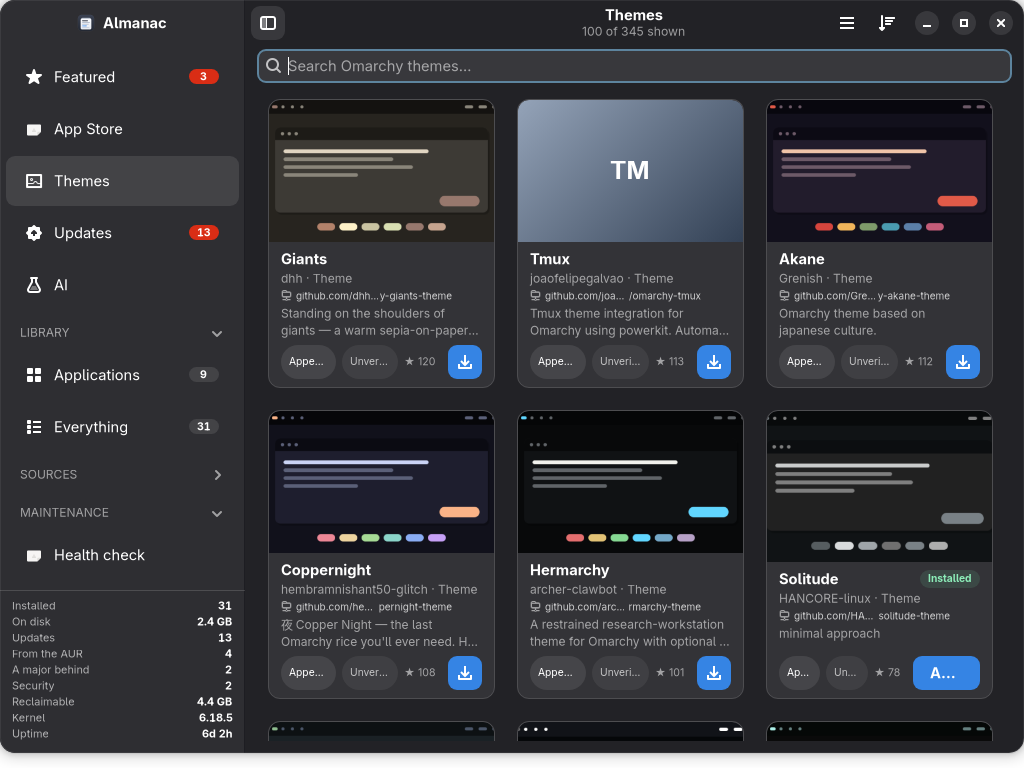
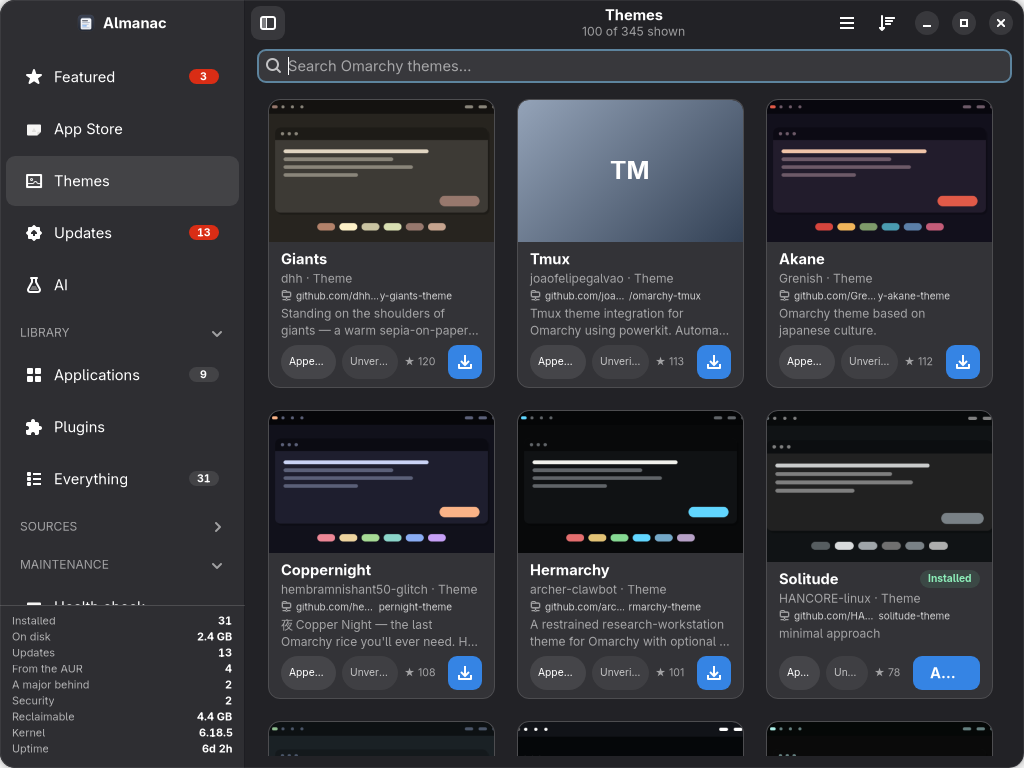
Version 1.4.0: README and screenshot for the Plugins page
Demo mode lists synthetic plugins, so the screenshot shows no one's own
setup -- the page otherwise reads omarchy's real list -- with a test, and
without a real account's avatar.

diff --git a/demo.py b/demo.py
@@ -360,3 +360,39 @@ def history():
         by_day.setdefault(datetime.fromtimestamp(e.ts).date(), []).append(e)
     return [h.Day(d, evs, any(e.kind == h.SNAPSHOT for e in evs))
             for d, evs in sorted(by_day.items(), reverse=True)]
+
+
+def plugins():
+    """A believable plugin list, so the Plugins page shows no one's own."""
+    import plugins as p
+    up = p.State("example.weather", p.UPDATE, "behind", 23,
+                 "https://github.com/example/weather")
+    # No address: a real account's avatar must not appear in a screenshot.
+    edits = p.State("example.scratchpad", p.LOCAL_CHANGES, "modified", 7)
+    current = p.State("example.bar-clock", p.CURRENT, "",
+                      url="https://github.com/example/bar-clock")
+    dev = p.State("example.devtool", p.LOCAL, "symlink")
+    rows = [
+        p.Installed("example.weather", "Weather", "Current conditions and the "
+                    "next few hours, in the bar", "1.4.2", ("bar-widget",),
+                    True, state=up),
+        p.Installed("example.scratchpad", "Scratchpad", "A scratch buffer that "
+                    "follows you between workspaces", "0.9.1", ("panel",),
+                    True, state=edits),
+        p.Installed("example.bar-clock", "Bar clock", "A clock for the bar",
+                    "2.1.0", ("bar-widget",), False, state=current),
+        p.Installed("example.devtool", "Plugin I am writing", "Linked from a "
+                    "workspace", "0.1.0", ("panel",), True, state=dev),
+    ]
+    for pid, name, desc, kinds, on in (
+            ("omarchy.clock", "Clock", "The time and date", ("bar-widget",), True),
+            ("omarchy.bluetooth", "Bluetooth", "Devices and pairing",
+             ("bar-widget",), True),
+            ("omarchy.network", "Network", "Wi-Fi and wired", ("bar-widget",), True),
+            ("omarchy.battery", "Battery", "Charge and power profile",
+             ("bar-widget",), True),
+            ("omarchy.weather", "Weather", "Forecast in the bar", ("bar-widget",), False),
+            ("omarchy.bar", "Bar", "The bar itself", ("bar",), True)):
+        rows.append(p.Installed(pid, name, desc, "1.0.0", kinds, on,
+                                can_disable=pid != "omarchy.bar", built_in=True))
+    return rows

diff --git a/test_app.py b/test_app.py
@@ -1337,6 +1337,13 @@ class DemoModeHidesTheMachine(unittest.TestCase):
         self.assertNotIn(os.uname().release.split("-")[0], kernel)
         self.assertEqual(uptime, "6d 2h")
 
+    def test_plugins_are_synthetic(self):
+        import plugins
+        with mock.patch.dict("os.environ", {"ALMANAC_DEMO": "1"}), \
+             mock.patch.object(plugins.subprocess, "run",
+                               side_effect=AssertionError("asked omarchy")):
+            self.assertTrue(plugins.installed())
+
     def test_history_is_synthetic(self):
         import history
         with mock.patch.dict("os.environ", {"ALMANAC_DEMO": "1"}), \

diff --git a/plugins.py b/plugins.py
@@ -194,6 +194,9 @@ def installed(fetch: bool = True, cache: dict | None = None) -> list[Installed]:
     supply the description, and the user's own plugins are classified so the
     page can say whether each can be updated.
     """
+    import demo
+    if demo.active():
+        return demo.plugins()
     try:
         out = subprocess.run(["omarchy", "plugin", "list", "--json"],
                              capture_output=True, text=True, timeout=25).stdout

diff --git a/selfupdate.py b/selfupdate.py
@@ -31,7 +31,7 @@ ROOT = Path(__file__).resolve().parent
 NAME = "Almanac"
 # Bumped by hand at release. git describe supersedes it in a checkout, so this
 # is only what a tarball install reports.
-VERSION = "1.3.0"
+VERSION = "1.4.0"
 
 GIT, PACKAGE, PLAIN = "git", "package", "plain"
 

diff --git a/README.md b/README.md
@@ -268,13 +268,18 @@ uninstall instructions are never offered. Plugins whose install itself cannot
 be done safely (a failed compatibility check, a version-matched helper, a
 monorepo, a suite with its own installer) still say "Manual setup", and why.
 
-### Installed plugins
+### Plugins — every one on the system, with a switch
 
-Every installed plugin can be switched on or off (through `omarchy plugin
-enable/disable`) from its row or its page, without removing it. Before
-anything offers to update one, it is classified: up to date, update waiting,
-local changes (edited, ahead of upstream, diverged, detached), local, or
-error. A **symlinked development plugin** — a link to its author's workspace —
+<img src="docs/screenshots/plugins.png" alt="Plugins" width="820">
+
+Library → Plugins lists every plugin Omarchy knows about, yours first and the
+built-ins after, each with a switch (`omarchy plugin enable/disable`) that
+moves only once Omarchy agrees. Each carries a logo — the vendor's own for a
+plugin about a service, the marketplace artwork for a listed one, otherwise an
+icon for what it does — and, for yours, its update state and provenance.
+Before anything offers to update one, it is classified: up to date, update
+waiting, local changes (edited, ahead of upstream, diverged, detached), local,
+or error. A **symlinked development plugin** — a link to its author's workspace —
 is never updated here, though `omarchy plugin update` would fast-forward it.
 Updates go through `omarchy plugin update`, which validates the result and
 rolls back a plugin that fails.
@@ -282,9 +287,10 @@ rolls back a plugin that fails.
 **☰ → Update plugins** updates every clean pending update at once, within a
 scope set in Preferences — verified only, verified and changed since review,
 or all — and lists what it held back and why. Scheduled runs honour the same
-scope. A plugin with a panel can be given a **keyboard shortcut**: checked
-against every binding Hyprland has, written to its own block in
-`bindings.lua`, and put back if Hyprland rejects it. **☰ → Restart the
+scope, and each plugin is checked again at the moment it is updated. A plugin
+with a panel can be given a **keyboard shortcut**: checked against every
+binding Hyprland has, written to its own block in `bindings.lua`, put back if
+Hyprland rejects it, and removed with the plugin. **☰ → Restart the
 shell** restarts it and clears the compiled QML cache, for a plugin that acts
 as if it had not been updated.
 
@@ -429,7 +435,7 @@ better than I can.
 python3 test_app.py
 ```
 
-140 tests, weighted toward the destructive paths — removal, orphan cleanup,
+151 tests, weighted toward the destructive paths — removal, orphan cleanup,
 AppImage replacement — because those are the ones that cannot be undone by
 clicking again. If you touch removal, orphan cleanup or install, the tests that
 assert *nothing runs before confirmation* must still pass.
